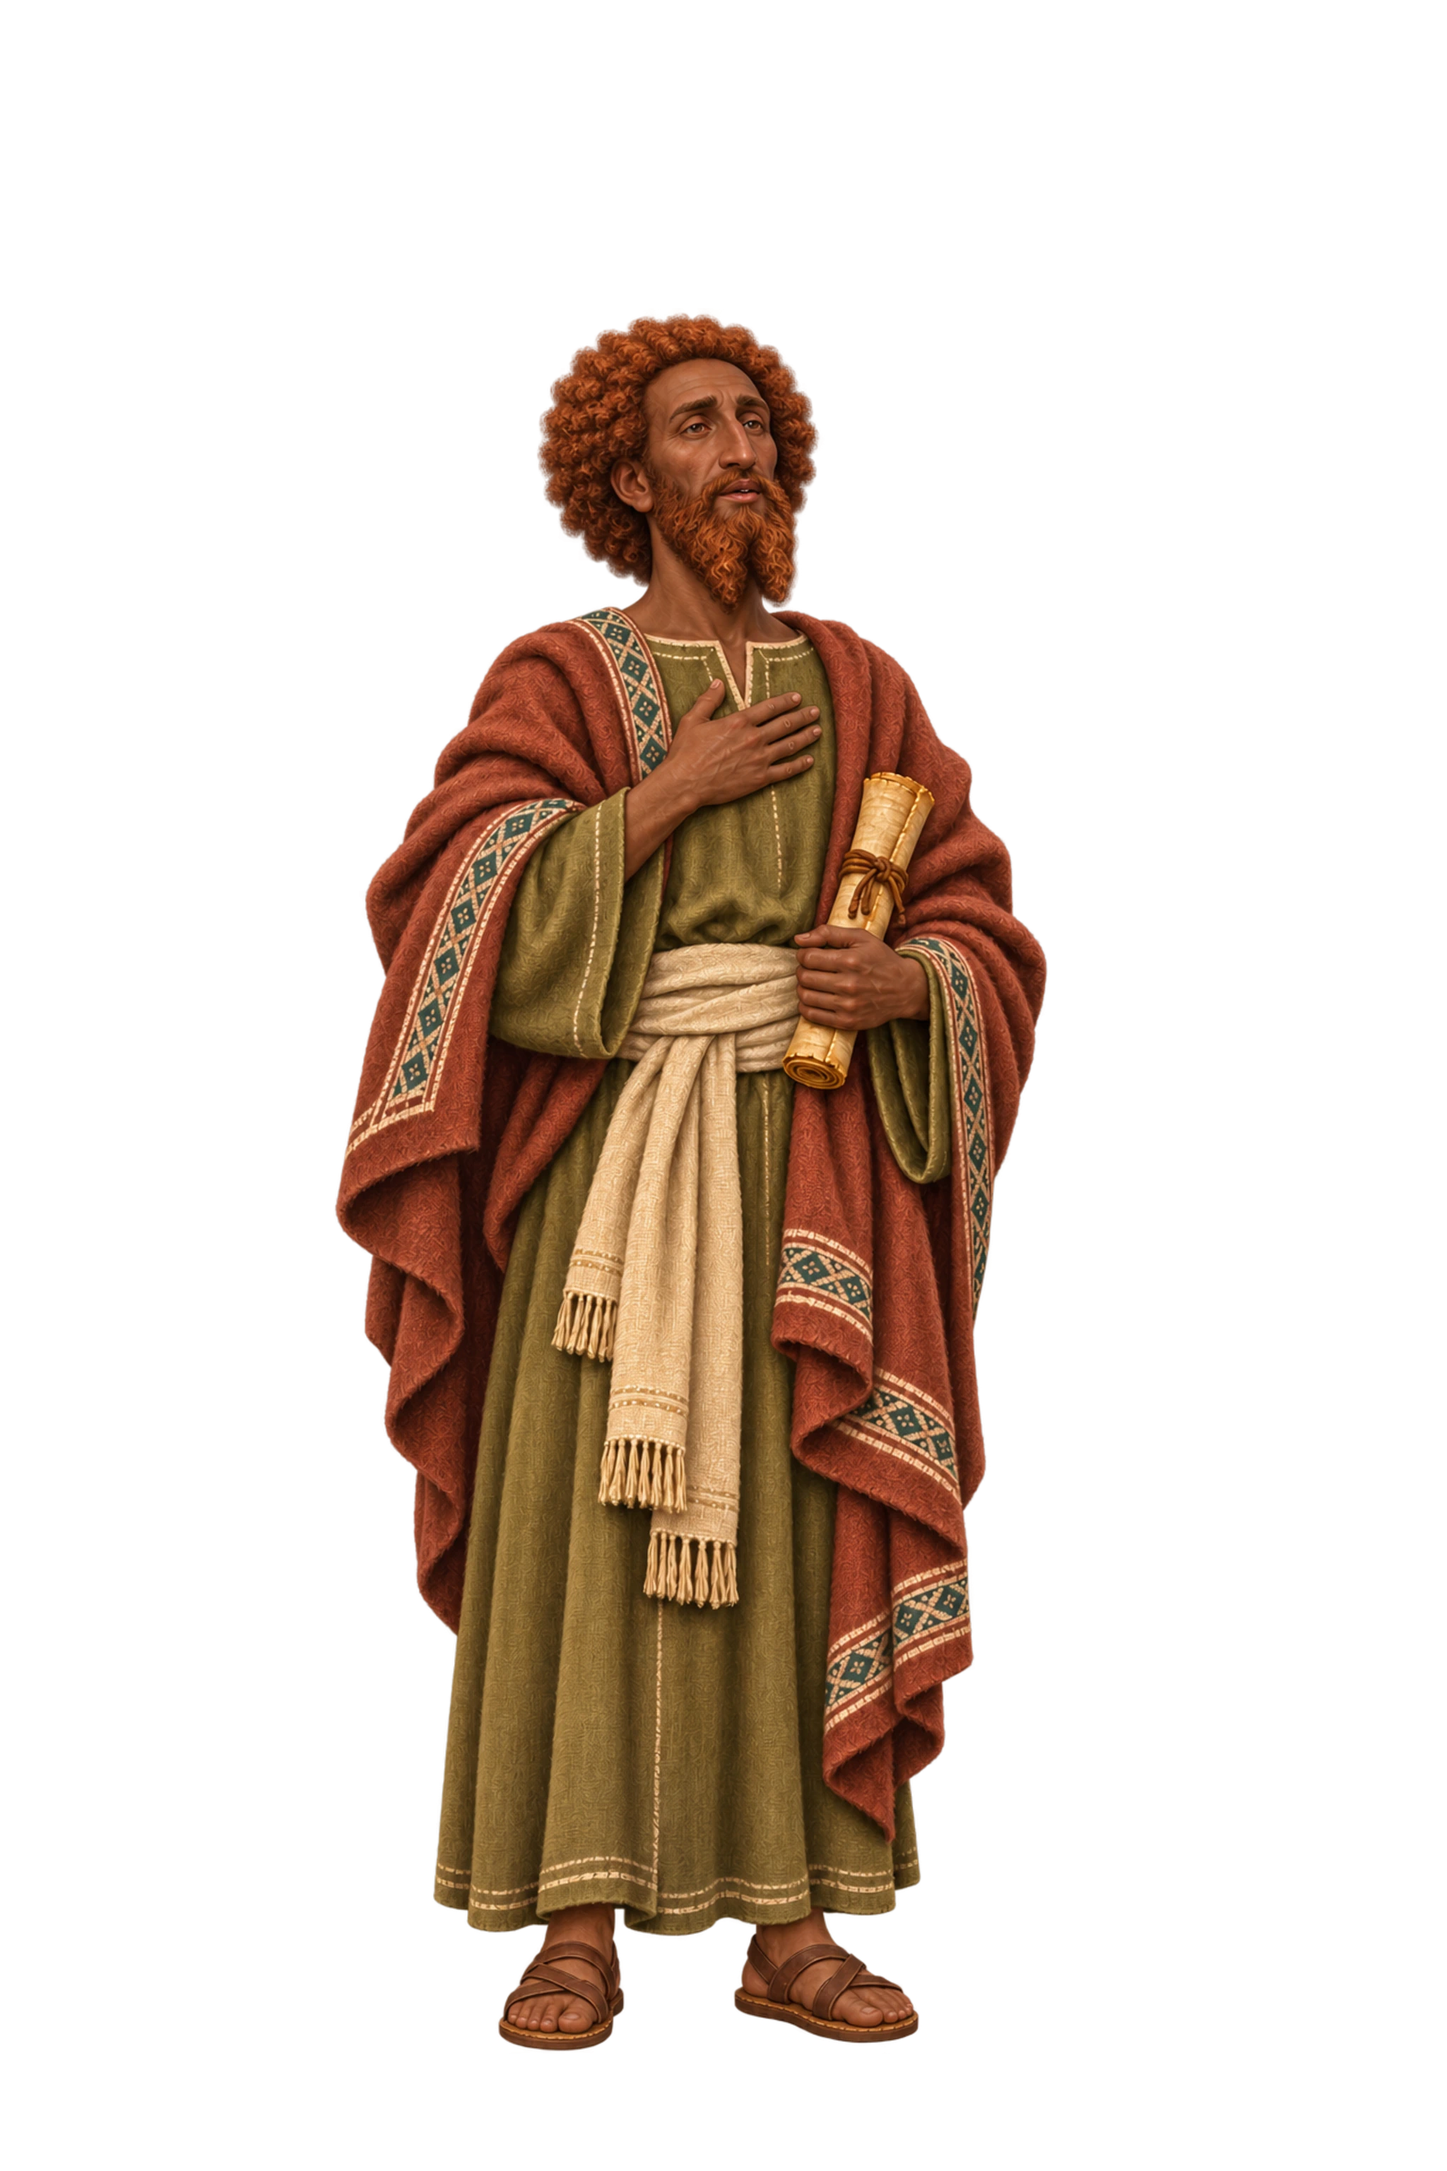
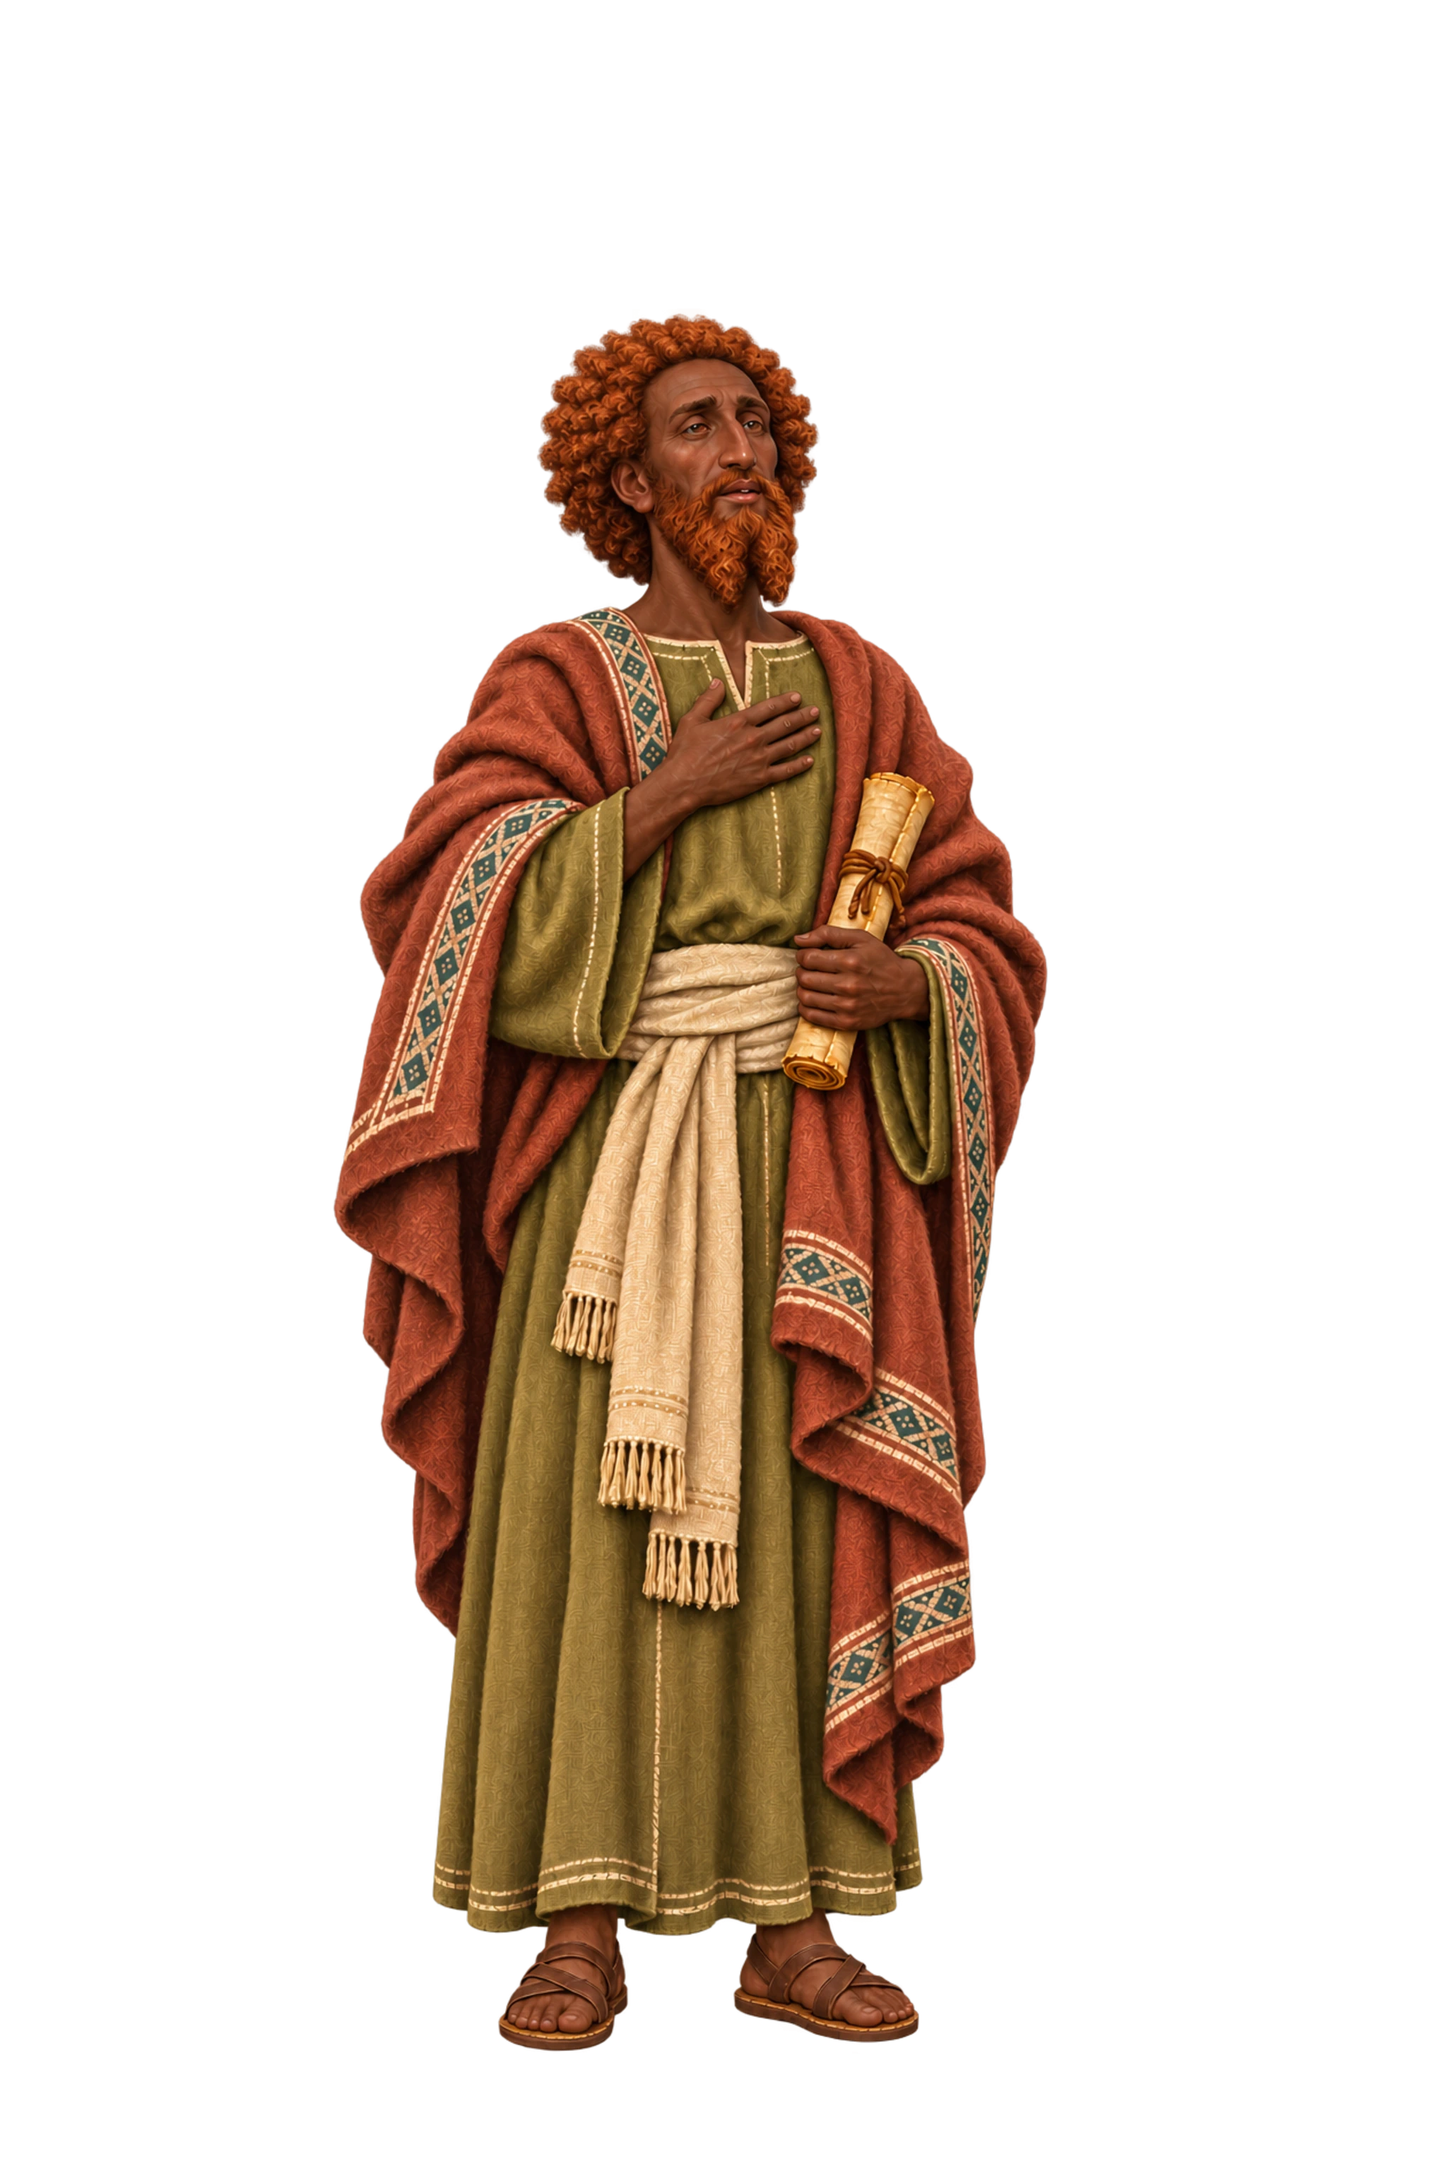
Aplica S11_v2 e S12_v2: tons de Etã (estilos 1 e 2) e Habacuque (estilo 3)
Claude-Session: https://claude.ai/code/session_01ShwRuBXYkz4meuq65H5Vn5

diff --git a/docs/skins/entregas/S11/PROMPTS.md b/docs/skins/entregas/S11/PROMPTS.md
@@ -295,3 +295,31 @@ KEEP this exact unique facial bone structure, apparent age, expression, body, po
 
 Image3 is ONLY an APPROVED skin-4 SKIN-PIGMENT COLOR REFERENCE. Borrow that complexion family and its neutral highlights/shadows on ALL exposed skin, never its face, age, sex, hairstyle, clothes, pose or props. Image1 remains the SOLE identity and outfit target. This must be a real visible pigment change, not a slight global tint.
 ```
+
+# Revisão S11_v2
+
+2 edições da ferramenta integrada, uma por pintura. Image1: alvo exato; Image2: referência de pigmento aprovada (Ageu1 para tom2, Corá1 para tom5), sem copiar rosto ou roupa; Image3: estilo médio preservado da mesma skin para comparação.
+
+## raro_eta_o_ezraita · estilo1 · tom de pele corrigido
+
+~~~text
+Use case: identity-preserve / EXACT SKIN PIGMENT CORRECTION. EDIT ONLY Image1, the exact full-body painted2.5D raro_eta_o_ezraita STYLE1 game sprite. Image1 is the SOLE target for face, anatomy, hair, beard, clothes, pose, props and framing. This is a color-family correction approved by the art reviewer, NOT a new character.
+
+MANDATORY CHANGE: Repaint ALL EXPOSED SKIN genuinely LIGHT FAIR WARM PEACH-BEIGE, catalog skin2 (#E8BC95). The current skin is too tanned and too similar to the medium style. Match Image2's approved FAIR complexion (Haggai style1): pale peach-beige midtones, warm ivory highlights, softly warm light-brown shadows. NO medium tan, bronze, copper/orange wash or dark olive. Make it unambiguously LIGHTER than Image3's medium complexion, even in the face thumbnail.
+
+Image2 is ONLY the approved skin2 complexion/color reference, NEVER its face, age, sex, hair, beard, pose, costume or object. Image3 is ONLY the same skin's unchanged MEDIUM STYLE shown for a STRONG CONTRAST comparison. The corrected target must be CLEARLY LIGHT/FAIR, much lighter than Image3. Do not recolor the whole canvas. Apply the pigment consistently on forehead, cheeks, nose, ears, neck, arms, both hands, legs and feet while keeping painted neutral upper-left light.
+
+STRICT INVARIANTS: Keep Image1's EXACT UNIQUE facial bone structure, apparent age, expression, eye shape, nose, mouth, beard length and outline, exact HAIR COLOR and HAIRSTYLE; no gray. Keep the HONEY GOLDEN-BROWN loose CURLY hair and matching forked beard. Keep the olive robe, rust mantle with cream/teal woven border, closed scroll held in one hand and other hand on chest. Same full costume textures and colors, SAME TWO CONNECTED ARMS and TWO natural five-finger hands with identical prop contacts. Same whole-body pose, complete feet and1024x1536 portrait framing. Preserve true RGBA transparent background, all background alpha0, compact opaque hair edges, no detached wisps or halos/haze. No background, text, UI, extra objects or extra figure. Repaint only the requested skin pigment, not facial identity, hair or clothing.
+~~~
+
+## raro_eta_o_ezraita · estilo2 · tom de pele corrigido
+
+~~~text
+Use case: identity-preserve / EXACT SKIN PIGMENT CORRECTION. EDIT ONLY Image1, the exact full-body painted2.5D raro_eta_o_ezraita STYLE2 game sprite. Image1 is the SOLE target for face, anatomy, hair, beard, clothes, pose, props and framing. This is a color-family correction approved by the art reviewer, NOT a new character.
+
+MANDATORY CHANGE: Repaint ALL EXPOSED SKIN genuinely DEEP WARM BROWN, catalog skin5 (#865233). The current skin is too light and too similar to the medium style. Match Image2's approved DARK BROWN complexion (Sons of Korah style1): deep brown midtones, softly warm brown highlights that never bleach the base skin pigment. NO copper-orange medium tan, suntan or global tint. Make it unambiguously DARKER than Image3's medium complexion, even in the face thumbnail.
+
+Image2 is ONLY the approved skin5 complexion/color reference, NEVER its face, age, sex, hair, beard, pose, costume or object. Image3 is ONLY the same skin's unchanged MEDIUM STYLE shown for a STRONG CONTRAST comparison. The corrected target must be CLEARLY DEEP/DARK BROWN, much darker than Image3. Do not recolor the whole canvas. Apply the pigment consistently on forehead, cheeks, nose, ears, neck, arms, both hands, legs and feet while keeping painted neutral upper-left light.
+
+STRICT INVARIANTS: Keep Image1's EXACT UNIQUE facial bone structure, apparent age, expression, eye shape, nose, mouth, beard length and outline, exact HAIR COLOR and HAIRSTYLE; no gray. Keep the COPPER volumetric rounded AFRO and matching forked beard. Keep the olive robe, rust mantle with cream/teal woven border, closed scroll held in one hand and other hand on chest. Same full costume textures and colors, SAME TWO CONNECTED ARMS and TWO natural five-finger hands with identical prop contacts. Same whole-body pose, complete feet and1024x1536 portrait framing. Preserve true RGBA transparent background, all background alpha0, compact opaque hair edges, no detached wisps or halos/haze. No background, text, UI, extra objects or extra figure. Repaint only the requested skin pigment, not facial identity, hair or clothing.
+~~~

diff --git a/docs/skins/entregas/S12/PROMPTS.md b/docs/skins/entregas/S12/PROMPTS.md
@@ -329,3 +329,19 @@ Use case: identity-preserve / precise framing correction. EDIT Image1, this exac
 ```text
 Use case: identity-preserve / precise complexion correction. EDIT Image1, the exact full-body epico_zacarias STYLE3 sprite. Current skin is too bright and copper-tan, too similar to the medium style. Repaint ONLY ALL EXPOSED SKIN into unambiguously DEEP WARM BROWN catalog skin5 (#865233), visibly MUCH darker than Image3's medium complexion. Use genuinely deep brown midtones and shadows; no copper-orange tan, orange tint, sunburn or bleaching of the base pigment. Neutral soft upper-left highlights remain naturally dark-skinned. Image2 is ONLY the APPROVED skin5 color reference, copy that DEEP BROWN pigment family, NEVER that person's face, sex, hair, clothes or pose. Image3 is the SAME SKIN's medium complexion shown ONLY for contrast; target must be clearly darker than it. Apply the deep shade consistently on face, ears, neck, both arms and hands, legs and all feet. KEEP Image1's exact UNIQUE facial bone structure, apparent adult age, expression, hairstyle and hair/beard color, complete costume colors/textures/patterns, body pose, two natural connected hands, supported props, full feet and exact safe-margin framing. Keep the brown LOCS and long two-pronged beard, exactly7golden oil lamps and central reservoir supported by one palm, and2olive branches in the other hand. Preserve the restored complete sandal soles and bottom transparent margin. ONE whole1024x1536 premium painted2.5D character, true transparent RGBA background, every unpainted pixel alpha0, compact opaque hair edges. No haze, vignette, shadows on background, floor, text or extra figure.
 ```
+
+# Revisão S12_v2
+
+1 edições da ferramenta integrada, uma por pintura. Image1: alvo exato; Image2: referência de pigmento aprovada (Ageu1 para tom2, Corá1 para tom5), sem copiar rosto ou roupa; Image3: estilo médio preservado da mesma skin para comparação.
+
+## epico_habacuque · estilo3 · tom de pele corrigido
+
+~~~text
+Use case: identity-preserve / EXACT SKIN PIGMENT CORRECTION. EDIT ONLY Image1, the exact full-body painted2.5D epico_habacuque STYLE3 game sprite. Image1 is the SOLE target for face, anatomy, hair, beard, clothes, pose, props and framing. This is a color-family correction approved by the art reviewer, NOT a new character.
+
+MANDATORY CHANGE: Repaint ALL EXPOSED SKIN genuinely LIGHT FAIR WARM PEACH-BEIGE, catalog skin2 (#E8BC95). The current skin is too tanned and too similar to the medium style. Match Image2's approved FAIR complexion (Haggai style1): pale peach-beige midtones, warm ivory highlights, softly warm light-brown shadows. NO medium tan, bronze, copper/orange wash or dark olive. Make it unambiguously LIGHTER than Image3's medium complexion, even in the face thumbnail.
+
+Image2 is ONLY the approved skin2 complexion/color reference, NEVER its face, age, sex, hair, beard, pose, costume or object. Image3 is ONLY the same skin's unchanged MEDIUM STYLE shown for a STRONG CONTRAST comparison. The corrected target must be CLEARLY LIGHT/FAIR, much lighter than Image3. Do not recolor the whole canvas. Apply the pigment consistently on forehead, cheeks, nose, ears, neck, arms, both hands, legs and feet while keeping painted neutral upper-left light.
+
+STRICT INVARIANTS: Keep Image1's EXACT UNIQUE facial bone structure, apparent age, expression, eye shape, nose, mouth, beard length and outline, exact HAIR COLOR and HAIRSTYLE; no gray. Keep the BROWN rounded tightly coiled AFRO and same brown wedge beard. Keep the ochre robe, blue-charcoal mantle with amber geometric woven border and plum sash. Exactly TWO BLANK writing tablets supported by the forearm and ONE reed stylus in the other hand. Same full costume textures and colors, SAME TWO CONNECTED ARMS and TWO natural five-finger hands with identical prop contacts. Same whole-body pose, complete feet and1024x1536 portrait framing. Preserve true RGBA transparent background, all background alpha0, compact opaque hair edges, no detached wisps or halos/haze. No background, text, UI, extra objects or extra figure. Repaint only the requested skin pigment, not facial identity, hair or clothing.
+~~~

diff --git a/docs/skins/entregas/S11/LEIA-ME.md b/docs/skins/entregas/S11/LEIA-ME.md
@@ -1,4 +1,4 @@
-# Jornada Bíblica · S11
+# Jornada Bíblica · S11_v2
 
 6 skins completas × 3 estilos = **18 pinturas** no 2.5D pintado aprovado. Fonte: branch claude/kind-bell-fuk4e4, commit c041fae. Briefing: LOTES.md; contrato: TEMPORADA-1-EXODO.md §2.
 
@@ -38,3 +38,11 @@ Cada personagem tem somente a apresentação do próprio sexo, na raiz do seu ID
 Conferir ZIP e .zip.sha256 de cada lote, somas, arte, diferenças de pele, rostos, mãos e objetos. Aplicar pelo fluxo oficial scripts/skins-add-lot.mjs S11 e scripts/gen-skin-art.mjs. Rodar unitários, SQL, skins-audit, marco1/journey/lobby/fixes e Supabase local oficial limpo. Atualizar plano/STATUS/LOTES/PARA-O-CODEX e publicar no mesmo branch com commit e resultado completo.
 
 O Codex alterou somente arte e arquivos de entrega locais, sem migração ou banco. A integração oficial fica com o Claude. O usuário autorizou S11/S12 em 24/11/2026. As 12 adaptações foram aprovadas e registradas no commit c041fae antes da produção. Revisão, integração e testes oficiais com o Claude continuam necessários. Até dois lotes nesta entrega: S11/S12.
+
+## Revisão solicitada no §31, commit fba0605 (24/11/2026)
+
+Etã1: pele clara tom2, com cabelo cacheado e barba em mel preservados. Etã2: pele escura tom5, com crespo volumoso e barba cobre preservados. Etã3 tom4 permanece idêntico.
+
+Somente Etã estilos1 e2 (base e @2x) e o ícone do estilo1 foram alterados. Os outros43assets, inclusive todas as6fichas e os5outros ícones, são byte a byte iguais à primeira entrega.
+
+Sem mudança de IDs, catálogo, sexo, estilos, regras, app, âncoras ou banco. As capturas320/412 da skin corrigida e as duas galerias foram atualizadas; capturas das outras5skins são idênticas. Comparacao_S11_v2.png mostra antes/depois no mesmo recorte. As novas correções foram geradas pela ferramenta integrada ImageGen; PROMPTS.md registra o texto exato. VALIDACAO.json traz os hashes dos assets alterados e a contagem dos preservados. ZIP original mantido imutável. Enviar somente este pacote completo v2 e seu .zip.sha256.

diff --git a/docs/skins/entregas/S12/LEIA-ME.md b/docs/skins/entregas/S12/LEIA-ME.md
@@ -1,4 +1,4 @@
-# Jornada Bíblica · S12
+# Jornada Bíblica · S12_v2
 
 6 skins completas × 3 estilos = **18 pinturas** no 2.5D pintado aprovado. Fonte: branch claude/kind-bell-fuk4e4, commit c041fae. Briefing: LOTES.md; contrato: TEMPORADA-1-EXODO.md §2.
 
@@ -38,3 +38,11 @@ Cada personagem tem somente a apresentação do próprio sexo, na raiz do seu ID
 Conferir ZIP e .zip.sha256 de cada lote, somas, arte, diferenças de pele, rostos, mãos e objetos. Aplicar pelo fluxo oficial scripts/skins-add-lot.mjs S12 e scripts/gen-skin-art.mjs. Rodar unitários, SQL, skins-audit, marco1/journey/lobby/fixes e Supabase local oficial limpo. Atualizar plano/STATUS/LOTES/PARA-O-CODEX e publicar no mesmo branch com commit e resultado completo.
 
 O Codex alterou somente arte e arquivos de entrega locais, sem migração ou banco. A integração oficial fica com o Claude. O usuário autorizou S11/S12 em 24/11/2026. As 12 adaptações foram aprovadas e registradas no commit c041fae antes da produção. Revisão, integração e testes oficiais com o Claude continuam necessários. Até dois lotes nesta entrega: S11/S12.
+
+## Revisão solicitada no §31, commit fba0605 (24/11/2026)
+
+Habacuque3: pele clara tom2, usando Ageu1 como referência de pigmento; rosto, crespo volumoso castanho, barba, traje, tábuas e cálamo preservados. Os estilos1 e2 permanecem idênticos.
+
+Somente Habacuque estilo3 (base e @2x) foi alterado. Os outros46assets, inclusive todas as6fichas e6ícones, são byte a byte iguais à primeira entrega.
+
+Sem mudança de IDs, catálogo, sexo, estilos, regras, app, âncoras ou banco. As capturas320/412 da skin corrigida e as duas galerias foram atualizadas; capturas das outras5skins são idênticas. Comparacao_S12_v2.png mostra antes/depois no mesmo recorte. As novas correções foram geradas pela ferramenta integrada ImageGen; PROMPTS.md registra o texto exato. VALIDACAO.json traz os hashes dos assets alterados e a contagem dos preservados. ZIP original mantido imutável. Enviar somente este pacote completo v2 e seu .zip.sha256.

diff --git a/docs/skins/PARA-O-CODEX.md b/docs/skins/PARA-O-CODEX.md
@@ -687,3 +687,23 @@ Os estilos continuam exatos, inclusive os locs de personagens que não são apó
 - **S12_v2, `epico_habacuque` estilo-3** (tom 2, crespo volumoso): saiu mais escuro que o estilo-1 (tom 3), com a ordem invertida. Clarear para tom 2 claro, como o Ageu estilo-1 ou o Amós estilo-2. Comparação em `docs/skins/entregas/S12/Tons_a_corrigir.png`.
 
 Mantenha rosto, barba, cabelo, traje, objetos, IDs e âncoras. Mande os pacotes S11 e S12 completos com os SHA-256 atualizados, sem migração.
+
+### 31.1 S11_v2 e S12_v2: correções aprovadas (24/11/2026)
+
+**Ciclo base de S11/S12 fechado e verde (`fba0605`):**
+- 138 testes unitários, 592 verificações SQL e auditoria com as 157 skins pintadas.
+- Fluxos marco1, journey, lobby e fixes.
+- 577 verificações no Supabase local, incluindo as compras simultâneas com saldo final 0.
+
+**S11_v2**
+- O ZIP de 19.176.176 bytes confere com o `.zip.sha256` (`f849b615…`) e as 69 somas conferem.
+- Mudaram só os 5 arquivos anunciados: estilos 1 e 2 de Etã (base e @2x) e o ícone.
+- Tons medidos na testa: estilo-1 (tom 2) em 205, estilo-3 (tom 4) em 151 e estilo-2 (tom 5) em 112. A ordem clara, média e escura está certa.
+
+**S12_v2**
+- O ZIP de 21.921.745 bytes confere com o `.zip.sha256` (`04dc1735…`) e as 69 somas conferem.
+- Mudou só o estilo-3 de Habacuque (base e @2x), agora em tom 2 claro, mais claro que o estilo-1 (tom 3).
+
+Os demais arquivos são idênticos, incluindo as 12 fichas. Integração sem migração nem mudança de catálogo, fichas ou regras.
+
+**S11/S12 encerrados. Próximo: S13 e S14.**
